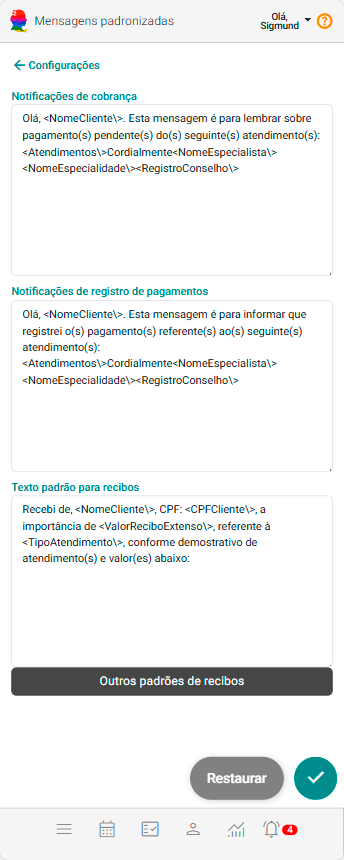
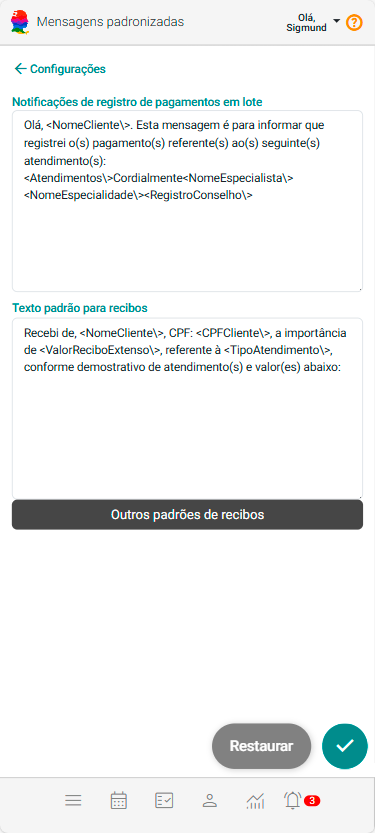
nilson

diff --git a/docs/08_funcionalidades/01-configuracoes/02_clientes/03_politica-comunicacao-alertas.md b/docs/08_funcionalidades/01-configuracoes/02_clientes/03_politica-comunicacao-alertas.md
@@ -1,0 +1,137 @@
+---
+sidebar_position: 3
+---
+
+# Política de Comunicação e Alertas
+
+A Política de Comunicação e Alertas define quando, como e por qual canal o sistema envia mensagens automáticas ou manuais para pacientes ou grupos terapêuticos.
+
+Essas comunicações ajudam a:
+
+- Reduzir faltas em atendimentos
+
+- Lembrar pagamentos e vencimentos
+
+- Manter cadastros atualizados
+
+- Melhorar o relacionamento com o paciente
+
+- Automatizar tarefas administrativas repetitivas
+
+## Estrutura da tela
+
+A tela apresenta uma lista de eventos, cada um representando uma situação específica do sistema que pode gerar comunicação.
+
+Cada item contém:
+
+- Nome do evento
+
+- Descrição do momento em que a mensagem é enviada
+
+- Status da política (ativa/inativa)
+
+- Ações de configuração
+
+## Eventos disponíveis e seus significados
+
+#### 🔹 Pendências de cadastro
+
+Envia mensagem ao paciente quando o cadastro está incompleto, solicitando atualização de dados obrigatórios, como:
+
+- E-mail
+
+- Celular
+
+- Data de nascimento
+
+📌 Útil para garantir comunicações futuras e conformidade de dados.
+
+#### 🔹 Agendamento não confirmado
+
+Mensagem enviada para solicitar a confirmação de um atendimento agendado, com link para confirmação.
+
+📌 Ajuda a reduzir faltas e agendas “ociosas”.
+
+#### 🔹 Agendamento confirmado
+
+Mensagem informando que o agendamento foi confirmado com sucesso.
+
+📌 Reforça segurança e profissionalismo no atendimento.
+
+#### 🔹 Desmarcação de atendimento
+
+Notifica o paciente ou grupo quando um atendimento é cancelado.
+
+📌 Evita desencontros e ruídos de comunicação.
+
+#### 🔹 Remarcação de atendimento
+
+Informa alterações de data ou horário de um atendimento já agendado.
+
+#### 🔹 Pagamento feito nos últimos 7 dias ou antecipado
+
+Mensagem informativa sobre:
+
+- Pagamentos realizados nos últimos 7 dias
+
+- Pagamentos feitos de forma antecipada (antes do vencimento)
+
+📌 Reforça transparência financeira com o paciente.
+
+#### 🔹 Vencimento nos próximos 7 dias
+
+Mensagem preventiva para lembrar sobre:
+
+- Valor em aberto
+
+- Vencimento próximo
+
+📌 Ajuda a reduzir inadimplência sem abordagem invasiva.
+
+#### 🔹 Pagamento pendente
+
+Mensagem de cobrança direta, enviada ao paciente ou responsável financeiro.
+
+⚠ Use com atenção ao tom da mensagem.
+
+#### 🔹 Aniversário
+
+Mensagem de parabenização enviada sobre aniversário do paciente. Ele é mostrada de 15 dias antes a 15 dias após o aniversário.
+
+📌 Humaniza o relacionamento.
+
+#### 🔹 Atendimento provável
+
+Mensagem a pacientes que tiveram atendimento no mês anterior e que ainda não possuem atendimento agendado no mês atual.
+
+📌 Incentiva retorno terapêutico.
+
+#### 🔹 Recebimento pendente
+
+Notificação quando existe intenção de pagamento registrada, mas ainda não concluída.
+
+---
+
+Nos cards de paciente, grupo e atendimento, existe a opção 🔔 (alertas).
+
+Essa opção funciona como um histórico de eventos e comunicações relacionados àquele paciente, grupo ou atendimento.
+
+Sempre que ocorrer um dos eventos configurados na Política de Comunicação e Alertas — como confirmação de agendamento, lembretes, cobranças, pendências de cadastro ou outras notificações — o sistema:
+
+- Registra automaticamente o evento
+
+- Exibe um indicativo visual no card correspondente
+
+- Armazena a ocorrência no histórico de alertas
+
+Ao clicar no ícone 🔔, o usuário poderá:
+
+- Visualizar todas as ocorrências registradas
+
+- Identificar o tipo de evento
+
+- Conferir quando a comunicação foi gerada
+
+- Entender o contexto do alerta relacionado ao paciente, grupo ou atendimento
+
+Essa funcionalidade permite acompanhar facilmente tudo o que já foi comunicado, trazendo mais controle, transparência e rastreabilidade para o atendimento e para a gestão.

diff --git a/docs/08_funcionalidades/01-configuracoes/00_visao-configuracoes.md b/docs/08_funcionalidades/01-configuracoes/00_visao-configuracoes.md
@@ -29,6 +29,7 @@ Objetiva facilitar o gerenciamento e a personalização das informações dos pa
 - **Campos Adicionais:** Adicione e configure campos adicionais personalizados para pacientes e grupos a fim de coletar informações específicas dos pacientes/grupos, conforme as necessidades do seu negócio.
 - **Grupos Etários:** Crie e gerencie Grupos Etários para segmentação.
 - **Mensagens Padronizadas:** Crie padrões de mensagens relacionadas a pacientes e grupos.
+- **Política de Comunicação e Alertas:** Configure o painel de alertas e determine a política de comunicação com os pacientes/grupos.
 
 ## Finanças
 Gerencia aspectos financeiros relacionados ao sistema e garantir o controle e a precisão nas transações e relatórios financeiros.
@@ -36,7 +37,7 @@ Gerencia aspectos financeiros relacionados ao sistema e garantir o controle e a 
 - **Categorias de Receitas:** Defina e organize categorias para classificar receitas, facilitando a análise financeira e o planejamento.
 - **Categorias de Despesas:** Defina e organize categorias para classificar despesas, facilitando a análise financeira e o planejamento.
 - **Tipos de Atendimento:** Estabeleça configurações relacionadas a tipos de atendimentos.
-- **Mensagens Padronizadas:** Crie padrões de mensagens relacionadas a atendimentos.
+- **Mensagens Padronizadas:** Crie padrões de mensagens relacionadas a pagamentos e recibos.
 - **Regras de Cobrança:** Permite o cadastro de regras de cobrança para os atendimentos, incluindo descontos, multas, juros por atraso e mora diária.
 
 ## Integrações

diff --git a/docs/08_funcionalidades/01-configuracoes/03_financas/05_mensagens-padronizadas.md b/docs/08_funcionalidades/01-configuracoes/03_financas/05_mensagens-padronizadas.md
@@ -8,11 +8,7 @@ O uso de mensagens padronizadas relacionadas a atendimentos é uma estratégia e
 
 ![Configurações](../../../../static/img/prints/07_mensagens_padronizadas_001.png)
 
-## Notificações de Cobrança
-
-O sistema permite, nas telas de faturas abertas, o envio de notificações de cobrança via WhatsApp ou e-mail para informar o paciente sobre atendimentos pendentes de pagamento. Este campo possibilita a personalização do texto padrão dessas mensagens.
-
-## Notificações de Registro de Pagamentos
+## Notificações de Registro de Pagamentos em Lote
 
 O sistema permite, nas telas de faturas fechadas, o envio de notificações de registro de quitação via WhatsApp ou e-mail para informar o paciente sobre atendimentos que tiveram sua quitação reconhecida e registrada. Este campo possibilita a personalização do texto padrão dessas mensagens.
 
